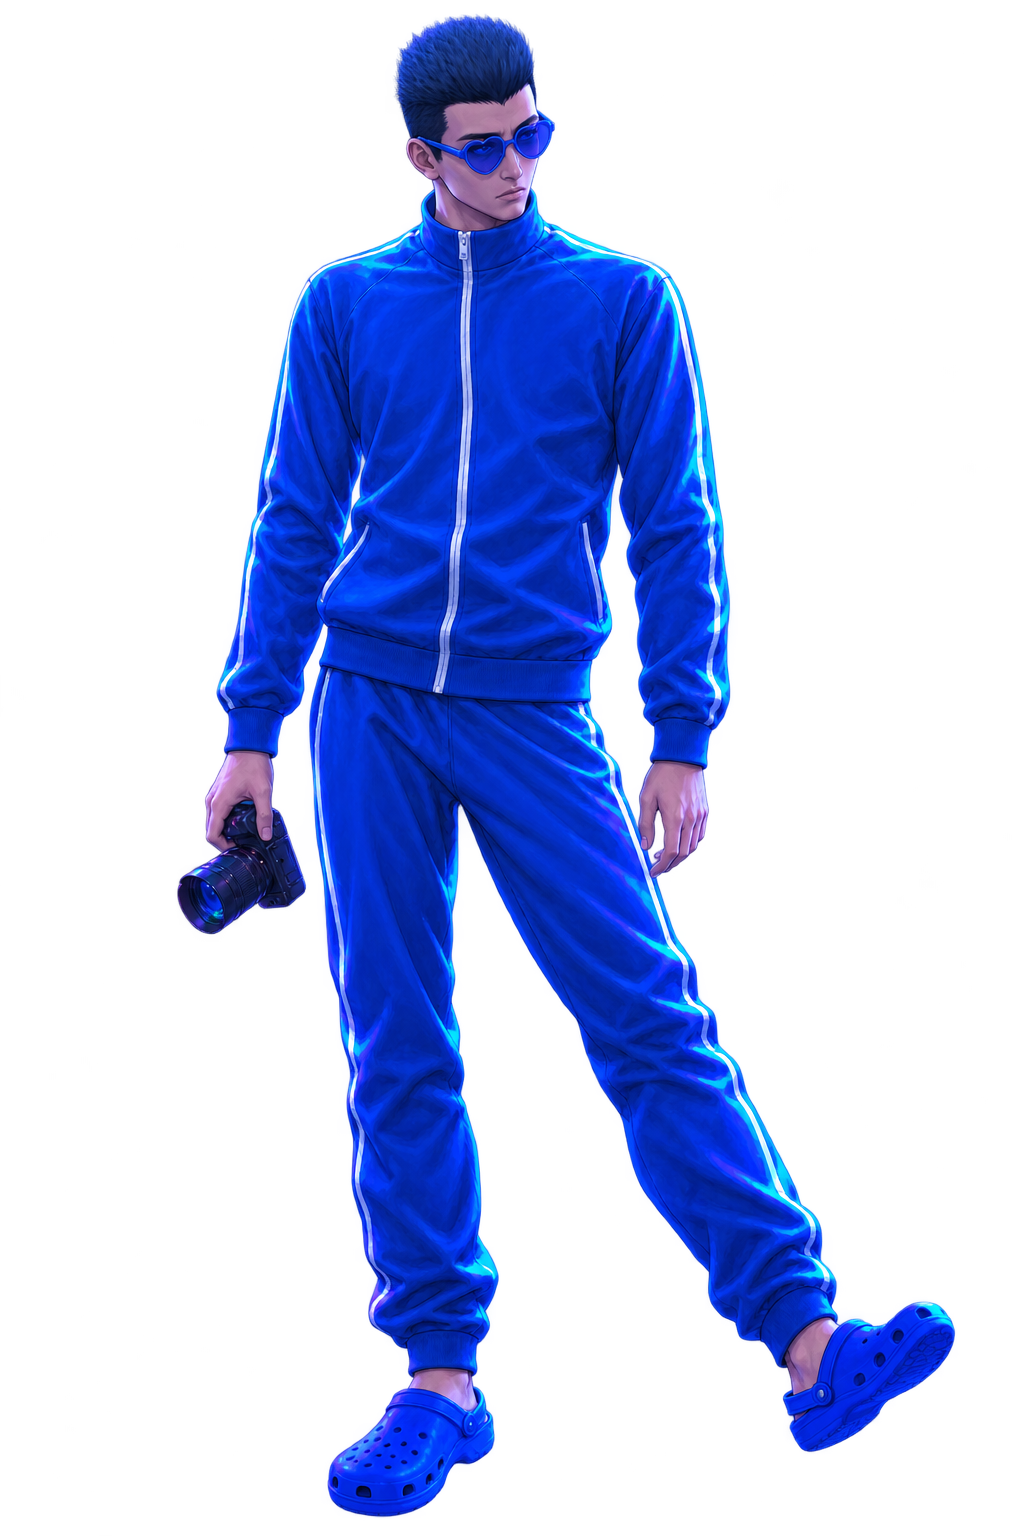
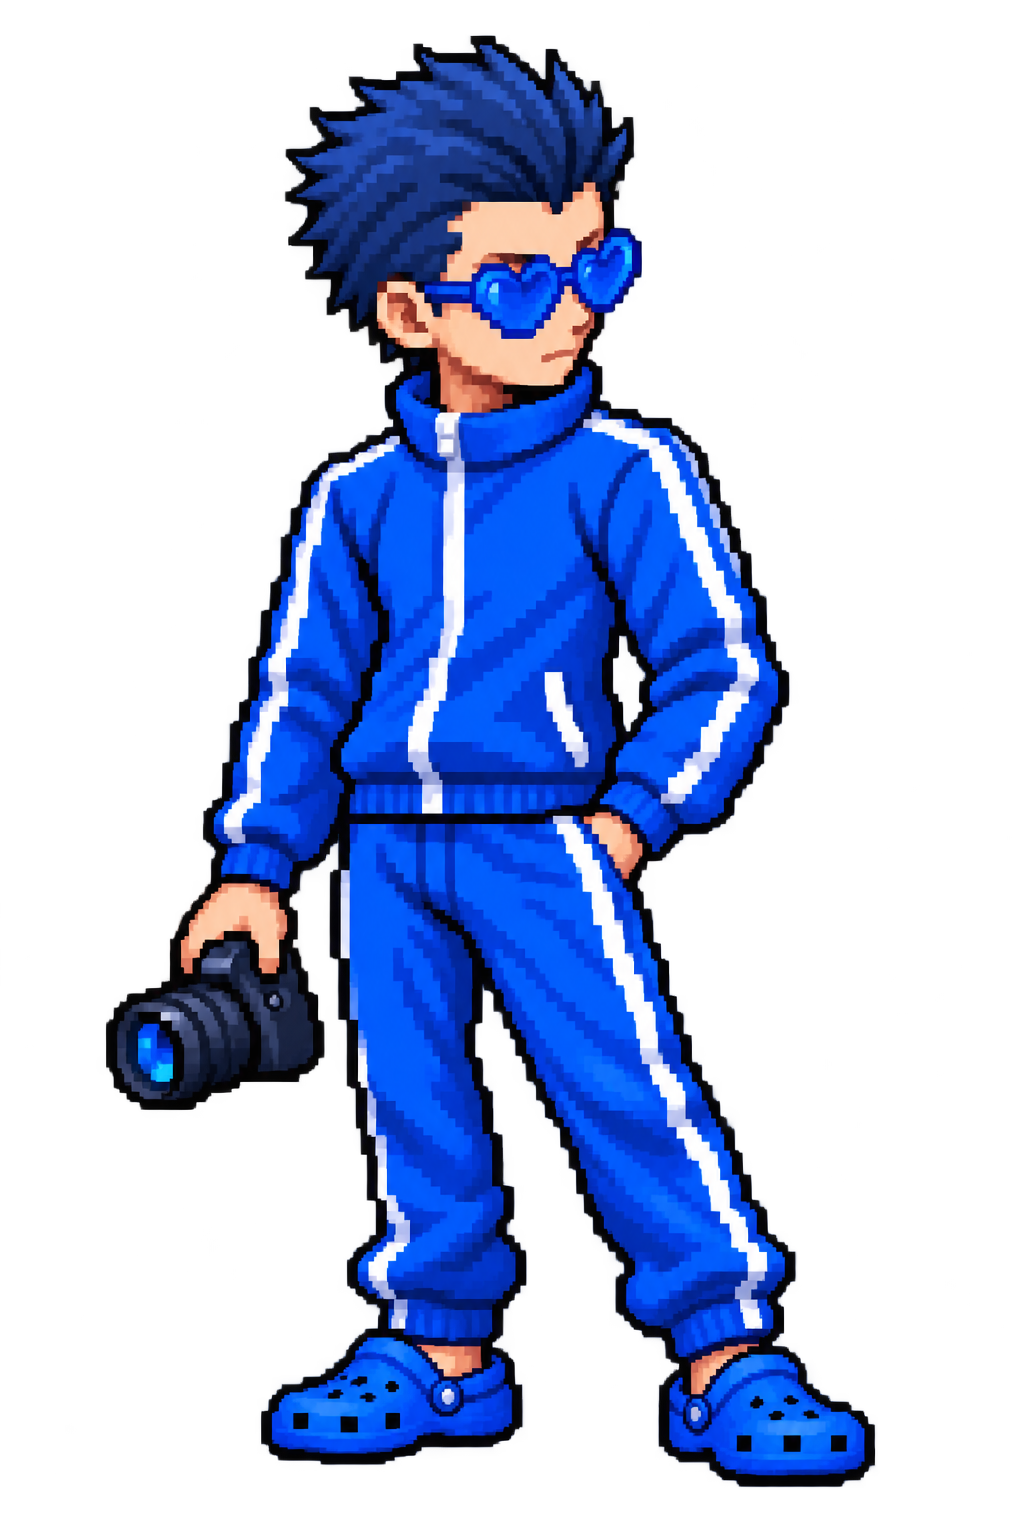
Add files via upload

diff --git a/game.js b/game.js
@@ -1,13 +1,15 @@
 const $=id=>document.getElementById(id);
 const definitions=[{name:'ハッピーアタック',type:'ノーマル',css:'',pp:15,power:29,description:'気分を上げて攻撃'},{name:'ダンシングビート',type:'かくとう',css:'fight',pp:10,power:39,description:'ダンスで強く攻撃'},{name:'トロピカルウェーブ',type:'みず',css:'water',pp:10,power:34,description:'波で攻撃'},{name:'リラックスタイム',type:'ノーマル',css:'',pp:5,power:0,description:'HPを45回復'}];
-const enemies={matasaburo:{name:'マタサブロウ',title:'やせいの リゾートポケモン',image:'assets/matasaburo.png',moves:[{name:'ハッピーアタック',damage:27},{name:'ダンシングビート',damage:32},{name:'トロピカルウェーブ',damage:29}]},mikeke:{name:'ミケケ',title:'カメラこぞう',image:'assets/mikeke.png',moves:[{name:'しゃしんをとる',damage:0,text:'パシャッ！ 写真をとっている。',effect:'photo-effect'},{name:'だきつく',damage:50,text:'ぎゅーっ！ 50 ダメージを うけた！'},{name:'ポーズをとる',damage:0,text:'ミケケは かっこよく ポーズをとった！'},{name:'めっちゃいい～',damage:0,text:'「めっちゃいい～！」 ミケケは よろこんでいる！'}]}};
+const enemies={matasaburo:{name:'マタサブロウ',title:'やせいの リゾートポケモン',image:'assets/matasaburo.png',moves:[{name:'ハッピーアタック',damage:27},{name:'ダンシングビート',damage:32},{name:'トロピカルウェーブ',damage:29}]},mikeke:{name:'ミケケ',title:'カメラこぞう',image:'assets/mikeke.png',moves:[{name:'しゃしんをとる',damage:0,text:'パシャッ！ 写真をとっている。',effect:'photo-effect'},{name:'だきつく',damage:50,text:'ぎゅーっ！ 50 ダメージを うけた！'},{name:'ポーズをとる',damage:0,text:'ミケケは かっこよく ポーズをとった！'},{name:'めっちゃいい～',damage:0,text:'「めっちゃいい～！」 ミケケは よろこんでいる！'}]},mine_daina:{name:'みね だいな',title:'だいこんトレーナー',image:'assets/mine_daina.png',moves:[{name:'だいこんを投げる',kind:'damage',damage:80,text:'だいこんが ちょくげき！ 80 ダメージを うけた！'},{name:'だいこんを食べる',kind:'self-heal',heal:45,text:'みね だいなは だいこんを たべた！'},{name:'だいこんを食べさせる',kind:'target-heal',heal:45,text:'みね だいなは だいこんを たべさせた！'},{name:'あいさつする',kind:'status',damage:0,text:'「おはようございま～す」'}]},kanade:{name:'かなで',title:'けむりのトレーナー',image:'assets/kanade.png',moves:[{name:'たばこを吸う',kind:'self-heal',heal:45,text:'かなでは たばこを すった。'},{name:'こんじょうやき',kind:'damage',damage:42,text:'こんじょうやき！ 42 ダメージを うけた！'},{name:'ステーキをたべる',kind:'self-damage',damage:30,text:'かなでは ステーキを たべた！'},{name:'しかる',kind:'damage',damage:35,text:'かなでに しかられた！ 35 ダメージを うけた！'}]},sui:{name:'すい',gender:'♀',title:'みずのトレーナー',image:'assets/sui.png',moves:[{name:'みずのはどう',kind:'damage',damage:36,text:'みずのはどう！ 36 ダメージを うけた！',effect:'water-effect'},{name:'れいとうビーム',kind:'damage',damage:44,text:'れいとうビーム！ 44 ダメージを うけた！'},{name:'うずしお',kind:'damage',damage:32,text:'うずしおに まきこまれた！ 32 ダメージを うけた！',effect:'water-effect'},{name:'ナイトフォール',kind:'damage',damage:55,text:'ナイトフォール！ 55 ダメージを うけた！'}]}};
 let state,epoch=0,sound=false,audio;
 function tone(freq=440){if(!sound)return;try{audio??=new(window.AudioContext||window.webkitAudioContext)();audio.resume();let o=audio.createOscillator(),g=audio.createGain();o.type='square';o.frequency.value=freq;g.gain.setValueAtTime(.035,audio.currentTime);g.gain.exponentialRampToValueAtTime(.001,audio.currentTime+.15);o.connect(g);g.connect(audio.destination);o.start();o.stop(audio.currentTime+.16)}catch{}}
 function render(){for(const side of ['player','enemy']){let amount=state[side]/180*100;$(side+'-bar').style.width=amount+'%';$(side+'-bar').style.background=amount>50?'#59cc79':amount>20?'#efc74f':'#e16a59'}$('hp').textContent=state.player+' / 180';$('turn').textContent='TURN '+String(state.turn).padStart(2,'0');$('moves').replaceChildren();definitions.forEach((m,i)=>{let b=document.createElement('button');b.className='move';b.disabled=state.busy||state.over||state.pp[i]===0;b.setAttribute('aria-label',m.name+'、'+m.description+'、残りPP '+state.pp[i]);b.innerHTML='<span class="move-name">'+m.name+'</span><span class="move-meta"><span class="type '+m.css+'">'+m.type+'</span><span>PP '+state.pp[i]+' / '+m.pp+'</span></span>';b.onclick=()=>turn(i);$('moves').append(b)});$('moves').hidden=state.over;$('retry').hidden=true}
 function say(text,label){$('message').textContent=text;if(label)$('phase').textContent=label}
-function reset(enemyId='matasaburo'){epoch++;const foe=enemies[enemyId]||enemies.matasaburo;state={foe,player:180,enemy:180,pp:definitions.map(m=>m.pp),turn:1,busy:false,over:false};$('enemy').classList.remove('faint');$('player').classList.remove('faint');$('effect').className='';$('enemy').src=foe.image;$('enemy').alt=foe.title+' '+foe.name;document.querySelector('.enemy-status .name').innerHTML=foe.name+' <span class="male">♂</span><span class="level">Lv.50</span>';document.querySelector('.status-foot').textContent=foe.title;say(foe.title+' '+foe.name+'が あらわれた！ マタサブロウは どうする？','YOUR TURN');render()}
+function reset(enemyId='matasaburo'){epoch++;const foe=enemies[enemyId]||enemies.matasaburo;state={foe,player:180,enemy:180,pp:definitions.map(m=>m.pp),turn:1,busy:false,over:false};$('enemy').classList.remove('faint');$('player').classList.remove('faint');$('effect').className='';$('enemy').src=foe.image;$('enemy').alt=foe.title+' '+foe.name;document.querySelector('.enemy-status .name').innerHTML=foe.name+' <span class="male">'+(foe.gender||'♂')+'</span><span class="level">Lv.50</span>';document.querySelector('.status-foot').textContent=foe.title;say(foe.title+' '+foe.name+'が あらわれた！ マタサブロウは どうする？','YOUR TURN');render()}
 const delay=ms=>new Promise(r=>setTimeout(r,ms));
 function animate(id,cls){$(id).classList.remove(cls);void $(id).offsetWidth;$(id).classList.add(cls);setTimeout(()=>$(id).classList.remove(cls),600)}
 function finish(won){state.over=true;state.busy=false;$(won?'enemy':'player').classList.add('faint');say(won?state.foe.name+'を たおした！ マップへ戻ります。':'マタサブロウは たおれた…。ひと休みして マップへ戻ります。',won?'YOU WIN!':'BATTLE OVER');tone(won?880:160);render();document.dispatchEvent(new Event('battle-finished'))}
-async function turn(i){if(state.busy||state.over||!state.pp[i])return;const ticket=epoch,m=definitions[i];state.busy=true;state.pp[i]--;render();say('マタサブロウの '+m.name+'！','YOUR MOVE');tone(m.power?520:740);animate('player',m.power?'attack':'heal');await delay(650);if(ticket!==epoch)return;if(m.power){const damage=m.power+Math.floor(Math.random()*8);state.enemy=Math.max(0,state.enemy-damage);animate('enemy','hit');if(m.css)animate('effect',m.css==='water'?'water-effect':'fight-effect');say(state.foe.name+'に '+damage+' ダメージ！')}else{let n=Math.min(45,180-state.player);state.player+=n;say(n?'リラックスして HPが '+n+' かいふくした！':'HPは まんたんだ！')}render();await delay(950);if(ticket!==epoch)return;if(!state.enemy){finish(true);return}const opponent=state.foe.moves[(state.turn-1)%state.foe.moves.length];say(state.foe.name+'の '+opponent.name+'！','ENEMY TURN');animate('enemy','attack');tone(260);await delay(650);if(ticket!==epoch)return;const damage=opponent.damage;state.player=Math.max(0,state.player-damage);if(damage)animate('player','hit');if(opponent.effect)animate('effect',opponent.effect);say(opponent.text||'マタサブロウは '+damage+' ダメージを うけた！');render();await delay(850);if(ticket!==epoch)return;if(!state.player){finish(false);return}state.turn++;state.busy=false;if(state.pp.every(p=>p===0)){state.pp=definitions.map(m=>m.pp);say('ひと息ついて PPが かいふくした！ つぎの技は？','YOUR TURN')}else say('マタサブロウは どうする？','YOUR TURN');render()}
+function healSide(side,amount){const before=state[side];state[side]=Math.min(180,state[side]+amount);return state[side]-before}
+function applyEnemyMove(opponent){const kind=opponent.kind||(opponent.damage?'damage':'status');if(opponent.effect)animate('effect',opponent.effect);if(kind==='damage'){const damage=opponent.damage||0;state.player=Math.max(0,state.player-damage);if(damage)animate('player','hit');say(opponent.text||'マタサブロウは '+damage+' ダメージを うけた！');return}if(kind==='self-heal'){const healed=healSide('enemy',opponent.heal||45);animate('enemy','heal');say(opponent.text+(healed?' HPが '+healed+' かいふくした！':' しかし HPは まんたんだ！'));return}if(kind==='target-heal'){const healed=healSide('player',opponent.heal||45);animate('player','heal');say(opponent.text+(healed?' マタサブロウの HPが '+healed+' かいふくした！':' しかし HPは まんたんだ！'));return}if(kind==='self-damage'){const damage=Math.min(state.enemy,opponent.damage||0);state.enemy=Math.max(0,state.enemy-damage);if(damage)animate('enemy','hit');say(opponent.text+(damage?' '+state.foe.name+'は '+damage+' ダメージを うけた！':''));return}say(opponent.text||state.foe.name+'は ようすを みている…')}
+async function turn(i){if(state.busy||state.over||!state.pp[i])return;const ticket=epoch,m=definitions[i];state.busy=true;state.pp[i]--;render();say('マタサブロウの '+m.name+'！','YOUR MOVE');tone(m.power?520:740);animate('player',m.power?'attack':'heal');await delay(650);if(ticket!==epoch)return;if(m.power){const damage=m.power+Math.floor(Math.random()*8);state.enemy=Math.max(0,state.enemy-damage);animate('enemy','hit');if(m.css)animate('effect',m.css==='water'?'water-effect':'fight-effect');say(state.foe.name+'に '+damage+' ダメージ！')}else{let n=Math.min(45,180-state.player);state.player+=n;say(n?'リラックスして HPが '+n+' かいふくした！':'HPは まんたんだ！')}render();await delay(950);if(ticket!==epoch)return;if(!state.enemy){finish(true);return}const opponent=state.foe.moves[(state.turn-1)%state.foe.moves.length];say(state.foe.name+'の '+opponent.name+'！','ENEMY TURN');animate('enemy','attack');tone(opponent.kind==='status'?430:260);await delay(650);if(ticket!==epoch)return;applyEnemyMove(opponent);render();await delay(850);if(ticket!==epoch)return;if(!state.enemy){finish(true);return}if(!state.player){finish(false);return}state.turn++;state.busy=false;if(state.pp.every(p=>p===0)){state.pp=definitions.map(m=>m.pp);say('ひと息ついて PPが かいふくした！ つぎの技は？','YOUR TURN')}else say('マタサブロウは どうする？','YOUR TURN');render()}
 $('sound').onclick=()=>{sound=!sound;$('sound').textContent='♪ サウンド '+(sound?'ON':'OFF');$('sound').setAttribute('aria-pressed',String(sound));tone()};$('retry').onclick=reset;$('reset').onclick=reset;reset();

diff --git a/map.js b/map.js
@@ -3,7 +3,7 @@
   const shell = document.createElement('section');
   shell.className = 'overworld console';
   shell.setAttribute('aria-label', 'グンマーの小さなマップ');
-  shell.innerHTML = `<div class="screen-top"><span><i></i> GUNMA / はじまりの小道</span><span id="walk-count">0 STEPS</span></div><div class="map-view"><canvas id="world" width="640" height="416" tabindex="0" aria-label="マップ。矢印キーまたはWASDで移動。草むらを歩くとバトル。看板の前でスペースキー。"></canvas><div class="map-badge">グンマーの小道 <small>☀ はれ</small></div><div id="encounter-flash" hidden><span>！</span></div></div><div class="map-bottom"><div class="map-copy"><span class="dialogue-label">LET'S EXPLORE</span><p id="map-message" role="status" aria-live="polite">草むらに マタサブロウと ミケケが いるみたい。<br>小道を歩いて 探してみよう！</p><div class="map-legend">矢印キー / WASD：いどう　 SPACE：しらべる</div></div><div class="map-pad" aria-label="移動ボタン"><button data-dir="up" aria-label="上へ移動">▲</button><button data-dir="left" aria-label="左へ移動">◀</button><button id="inspect" aria-label="目の前を調べる">A</button><button data-dir="right" aria-label="右へ移動">▶</button><button data-dir="down" aria-label="下へ移動">▼</button></div></div>`;
+  shell.innerHTML = `<div class="screen-top"><span><i></i> GUNMA / はじまりの小道</span><span id="walk-count">0 STEPS</span></div><div class="map-view"><canvas id="world" width="640" height="416" tabindex="0" aria-label="マップ。矢印キーまたはWASDで移動。草むらを歩くとバトル。看板の前でスペースキー。"></canvas><div class="map-badge">グンマーの小道 <small>☀ はれ</small></div><div id="encounter-flash" hidden><span>！</span></div></div><div class="map-bottom"><div class="map-copy"><span class="dialogue-label">LET'S EXPLORE</span><p id="map-message" role="status" aria-live="polite">草むらに 5人の相手が いるみたい。<br>小道を歩いて 探してみよう！</p><div class="map-legend">矢印キー / WASD：いどう　 SPACE：しらべる</div></div><div class="map-pad" aria-label="移動ボタン"><button data-dir="up" aria-label="上へ移動">▲</button><button data-dir="left" aria-label="左へ移動">◀</button><button id="inspect" aria-label="目の前を調べる">A</button><button data-dir="right" aria-label="右へ移動">▶</button><button data-dir="down" aria-label="下へ移動">▼</button></div></div>`;
   battle.before(shell); battle.hidden = true;
   const back = document.createElement('button');
   back.className = 'map-return'; back.textContent = 'にげて マップへ戻る'; back.hidden = true;
@@ -60,9 +60,9 @@
   }
   function move(dir){if(mode!=='map'||moving)return;facing=dir;const [dx,dy]=dirs[dir];if(blocked(x+dx,y+dy))return;fromX=x;fromY=y;x+=dx;y+=dy;began=performance.now();moving=true;}
   function onStep(){if(mode!=='map')return;steps++;$('walk-count').textContent=steps+' STEPS';canvas.setAttribute('aria-label',`マップ。現在 ${x+1}列 ${y+1}行。${tile(x,y)==='g'?'草むら':'小道・草地'}。矢印キーで移動。`);if(tile(x,y)==='g'){grassSteps++;if(grassSteps>=encounterAt)encounter();} }
-  async function encounter(){mode='transition';held=null;const ticket=++token;$('encounter-flash').hidden=false;const enemyId=Math.random()<0.5?'mikeke':'matasaburo';message('あっ！ 草むらから '+enemies[enemyId].name+'が！');tone(760);await delay(reduced?200:700);if(ticket!==token)return;mode='battle';$('encounter-flash').hidden=true;shell.hidden=true;battle.hidden=false;back.hidden=false;back.textContent='にげて マップへ戻る';reset(enemyId);$('moves').querySelector('button').focus({preventScroll:true});}
+  async function encounter(){mode='transition';held=null;const ticket=++token;$('encounter-flash').hidden=false;const encounterPool=['matasaburo','mikeke','mine_daina','kanade','sui'];const enemyId=encounterPool[Math.floor(Math.random()*encounterPool.length)];message('あっ！ 草むらから '+enemies[enemyId].name+'が！');tone(760);await delay(reduced?200:700);if(ticket!==token)return;mode='battle';$('encounter-flash').hidden=true;shell.hidden=true;battle.hidden=false;back.hidden=false;back.textContent='にげて マップへ戻る';reset(enemyId);$('moves').querySelector('button').focus({preventScroll:true});}
   function returnToMap(){if(mode==='loading'||mode==='error')return;token++;epoch++;held=null;moving=false;mode='map';px=x;py=y;grassSteps=0;encounterAt=5+Math.floor(Math.random()*4);battle.hidden=true;back.hidden=true;shell.hidden=false;$('encounter-flash').hidden=true;message('ひと休みして HPとPPが まんたんに！ 冒険をつづけよう。');reset();canvas.focus({preventScroll:true});}
-  function inspect(){if(mode!=='map'||moving)return;const [dx,dy]=dirs[facing];if(tile(x+dx,y+dy)==='S'){message('【グンマーの小道】北と南の草むらに マタサブロウと ミケケ。バトルのあとは ひと休み！');tone(620);}else if(tile(x+dx,y+dy)==='W')message('きれいな池だ。水が きらきらしている。');else if(tile(x+dx,y+dy)==='T')message('大きな木が 道をふさいでいる。');else message('草むらを何歩か歩くと マタサブロウや ミケケに出会えるよ。');}
+  function inspect(){if(mode!=='map'||moving)return;const [dx,dy]=dirs[facing];if(tile(x+dx,y+dy)==='S'){message('【グンマーの小道】マタサブロウ、ミケケ、みね だいな、かなで、すいが いるみたい。');tone(620);}else if(tile(x+dx,y+dy)==='W')message('きれいな池だ。水が きらきらしている。');else if(tile(x+dx,y+dy)==='T')message('大きな木が 道をふさいでいる。');else message('草むらを何歩か歩くと 5人のだれかに出会えるよ。');}
   const keys={ArrowUp:'up',ArrowDown:'down',ArrowLeft:'left',ArrowRight:'right',w:'up',s:'down',a:'left',d:'right'};
   window.addEventListener('keydown',e=>{if(mode!=='map'||e.ctrlKey||e.metaKey||e.altKey)return;const dir=keys[e.key]||keys[e.key.toLowerCase()];if(dir){e.preventDefault();held=dir;if(!e.repeat){last=performance.now();move(dir);}}else if((e.code==='Space'||e.key==='Enter')&&e.target===canvas){e.preventDefault();inspect();}});
   window.addEventListener('keyup',e=>{if((keys[e.key]||keys[e.key.toLowerCase()])===held)held=null;});
